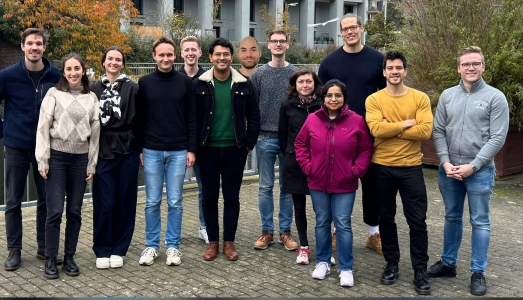
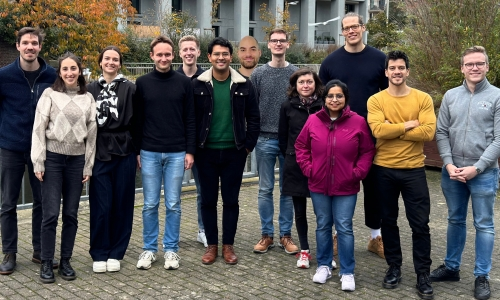
Add automatic slider for group photos

diff --git a/teaching.html b/teaching.html
@@ -104,34 +104,24 @@
 							If you are interested in one of these projects and fulfill the requirements laid out in our <a href="pdfs/thesis_guidelines.pdf"><b>thesis guidelines</b></a>, please <a href="mailto:kleinlab@scc.kit.edu">contact us</a> for more details.
 						</p>
 						<ul>
-							<li><i>Understanding And Implementing Predictive Information Criteria For Bayesian Models</i>, Contact Person: tbd.</li>
-							<li><i>Asymptotic Behaviour Of The Posterior In Overfitted (Deep) Mixture Models</i>, Contact Person: tbd.</li>
-							<li><i>Posterior Concentration Rates For Bayesian High-Dimensional Sparse Additive Models</i>, Contact Person: tbd.</li>
-							<li><i>Using Posterior Predictive Checks With Semistructured Deep Distributional Regression</i>, Contact Person: Victor Medina Olivares</li>
-							<li><i>Efficient Estimation Of Distributional Regression Models Using Hmc Based On Normalizing Flows</i>, Contact Person: tbd.</li>
-							<li><i>Predicting Revenue Streams Of Small And Medium-Sized Enterprises</i>, Contact Person: Nadja Klein</li>
-							<li><i>Standard Errors Of Variational Inference</i>, Contact Person: tbd.</li>
-							<li><i>Uncertainty Quantification For Deep Learning</i>, Contact Person: tbd.</li>
-							<li><i>Deep Gaussian Process Modelling</i>, Contact Person: Nadja Klein</li>
-							<li><i>Using Stacking To Average Distributional Regression Models</i>, Contact Person: Nadja Klein</li>
-							<li><i>Bayesian Nonparametric Conditional Density Estimators</i>, Contact Person: tbd.</li>
-							<li><i>Distributional Joint Modelling</i>, Contact Person: Victor Medina Olivares</li>
-							<li><i>Approximations Of Normalizing Constants In Doubly-Intractable Likelihoods</i>, Contact Person: Nadja Klein</li>
-							<li><i>Measuring The Explained Variance In Structured Additive Distributional Regression</i>, Contact Person: Nadja Klein</li>
-							<li><i>Comparisons And Implementation Of Non-Local Shrinkage Priors</i>, Contact Person: tbd.</li>
-							<li><i>A Scalable Joint Model Of Longitudinal And Survival Data With A Time-Varying Association</i>, Contact Person: Victor Medina Olivares</li>
-							<li><i>A Unified Deep-Cure Model Approach</i>, Contact Person: Victor Medina Olivares</li>
-							<li><i>Admissible Learning Algorithms</i>, Contact Person: Victor Medina Olivares</li>
-							<li><i>Fast Expectation Maximization Algorithm For Spatial Promotion Time Cure Models</i>, Contact Person: Victor Medina Olivares</li>
-							<li><i>Approximated Bayesian Multivariate Spatial Factor Analysis</i>, Contact Person: Victor Medina Olivares</li>
-							<li><i>A Scalable Joint Model Of Longitudinal And Survival Data With Long-Term Survivors</i>, Contact Person: Victor Medina Olivares</li>
-							<li><i>Leverage Generative Models To Improve Performance In Unbalanced Tabular Settings</i>, Contact Person: Victor Medina Olivares</li>
-							<li><i>Exact Likelihood Inference In Joint Modelling Settings</i>, Contact Person: Victor Medina Olivares</li>
-							<li><i>Targeted Sampling Based On Epistemic Uncertainty For Improving Predictive Performance Of DL Tasks In The Case Of Costly Data Acquisition</i>, <br>Contact Person: Clara Hoffmann</li>
-							<li><i>Uncertainty Quantification For Complex-Valued Deep Neural Networks</i>, Contact Person: Clara Hoffmann</li>
-							<li><i>Improved Variational Approximations</i>, Contact Person: Nadja Klein</li>
-							<li><i>Non-Gaussian Regression Copulas</i>, Contact Person: Nadja Klein</li>
-							<li><i>Variational Inference for Distributional Regression</i>, Contact Person: Nadja Klein</li>
+							<li><i>Understanding And Implementing Predictive Information Criteria For Bayesian Models</i></li>
+							<li><i>Asymptotic Behaviour Of The Posterior In Overfitted (Deep) Mixture Models</i></li>
+							<li><i>Posterior Concentration Rates For Bayesian High-Dimensional Sparse Additive Models</i></li>
+							<li><i>Uncertainty Quantification For Deep Learning</i></li>
+							<li><i>Using Stacking To Average Distributional Regression Models</i></li>
+							<li><i>Distributional Joint Modelling</i></li>
+							<li><i>Approximations Of Normalizing Constants In Doubly-Intractable Likelihoods</i></li>
+							<li><i>Measuring The Explained Variance In Structured Additive Distributional Regression</i></li>
+							<li><i>Comparisons And Implementation Of Non-Local Shrinkage Priors</i></li>
+							<li><i>Admissible Learning Algorithms</i></li>
+							<li><i>Approximated Bayesian Multivariate Spatial Factor Analysis</i></li>
+							<li><i>A Scalable Joint Model Of Longitudinal And Survival Data With Long-Term Survivors</i></li>
+							<li><i>Exact Likelihood Inference In Joint Modelling Settings</i></li>
+							<li><i>Targeted Sampling Based On Epistemic Uncertainty For Improving Predictive Performance Of Dl Tasks In The Case Of Costly Data Acquisition</i></li>
+							<li><i>Uncertainty Quantification For Complex-Valued Deep Neural Networks</i></li>
+							<li><i>Improved Variational Approximations</i></li>
+							<li><i>Non-Gaussian Regression Copulas</i></li>
+							<li><i>Variational Inference for Distributional Regression</i></li>
 						</ul>
 
 

diff --git a/team.html b/team.html
@@ -54,7 +54,7 @@
 				
 				<div class="slideshow-container">
 					<div class="slide">
-						<img src="images/groupphoto/groupphoto_Nov2024_scaled.jpg">
+						<img src="images/groupphoto/groupphoto_Nov2024_scaled.jpeg">
 						<div style="margin-top: 10px;">Trifels, November 2024</div>
 					</div>
 					<div class="slide">
@@ -426,6 +426,15 @@
 			slideIndex = index;
 			showSlide(slideIndex);
 		}
+
+		function autoSlide() {
+			slideIndex = (slideIndex + 1) % slides.length;
+			showSlide(slideIndex);
+		}
+
+  	setInterval(autoSlide, 3000); // Change image every 3 seconds
+
+	
   	</script>
   
 	
